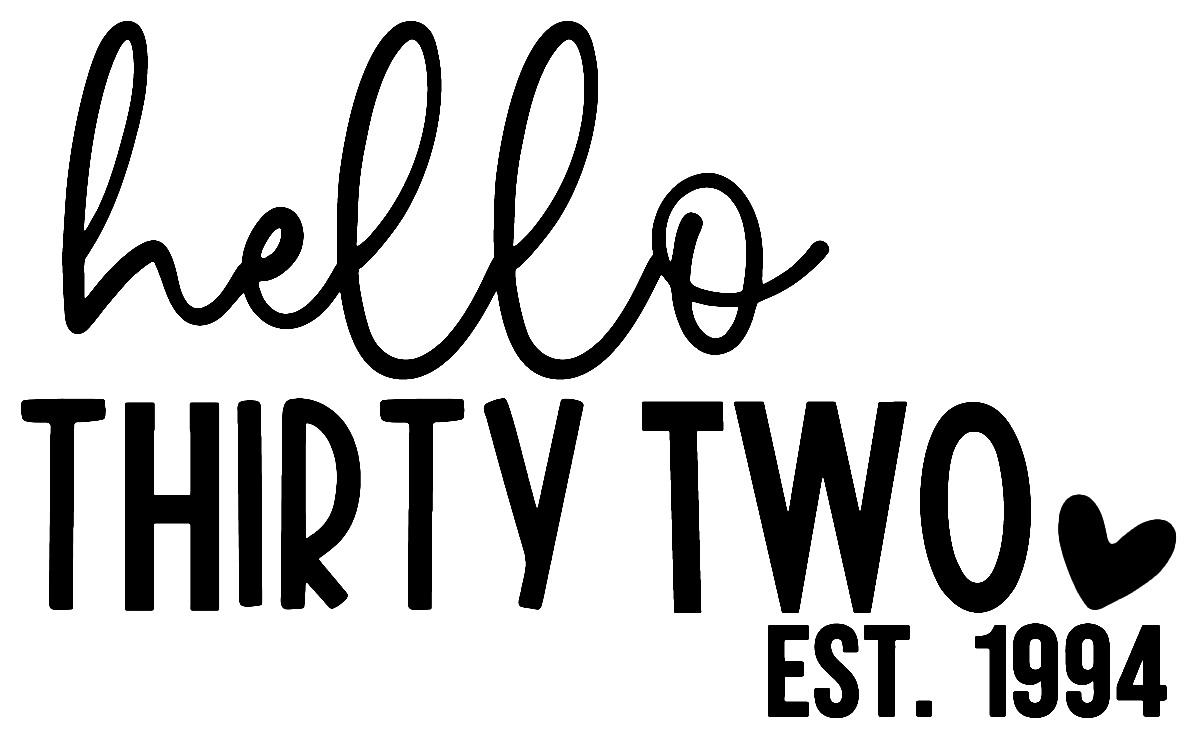
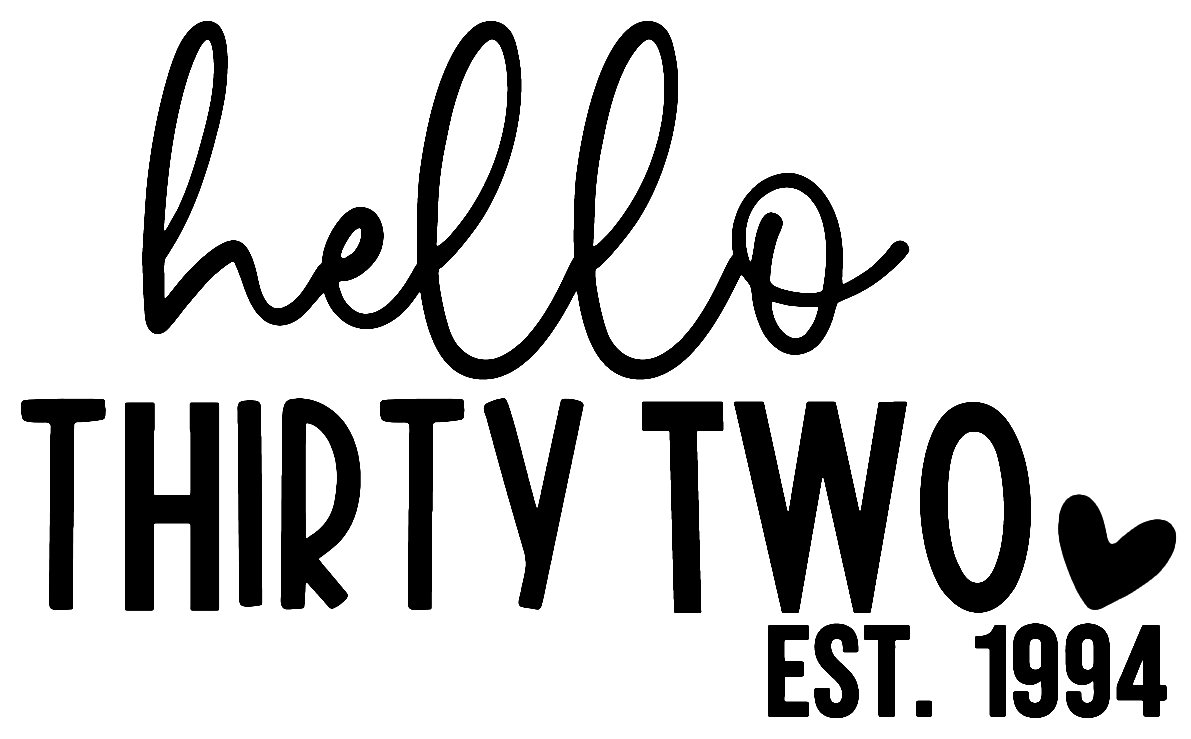
Hello 31 product images; 31-39 designs with hello centered over the word line
Claude-Session: https://claude.ai/code/session_01RFXLDoCFapJK3Pt9AUoro2

Changed region(s): [[0.0311, 0.0311, 0.7767, 0.5291]]

diff --git a/tools/product_images/make_hello30s.py b/tools/product_images/make_hello30s.py
@@ -59,6 +59,13 @@ def build(n):
         out[c4['y']:c4['y']+c4['h'],X4+dx:X4+dx+c4['w']]=last
     out[c3['y']:c3['y']+c3['h'],X3:X3+g.shape[1]]=np.maximum(out[c3['y']:c3['y']+c3['h'],X3:X3+g.shape[1]],g)
     assert yr_old[3]==yr_new[3]
+    # center "hello" over the word line (like the Thirty design) so the design stays balanced
+    hm=mask_of(lab,Hh,a.shape);hx=np.where(hm.any(0))[0];hc=(hx[0]+hx[-1])/2
+    wl=[c for c in L if c['y']<yW+0.5*cap];wx0=fx0;wx1=max(c['x']+c['w'] for c in L)+delta;wc=(wx0+wx1)/2
+    sh=int(round(wc-hc))
+    if sh>0:
+        hel=np.where(np.pad(hm,((0,0),(0,out.shape[1]-hm.shape[1]))),out,0);out=np.where(hel>0,0,out)
+        moved=np.zeros_like(out);moved[:,sh:]=hel[:,:-sh];out=np.maximum(out,moved)
     return out
 for n in range(1,10):
     o=build(n)
